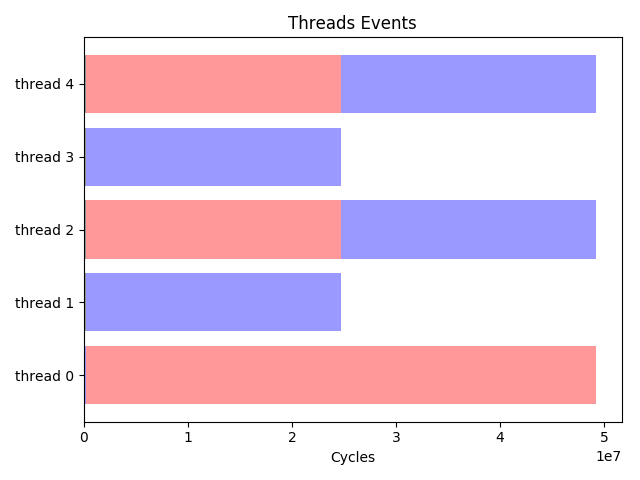
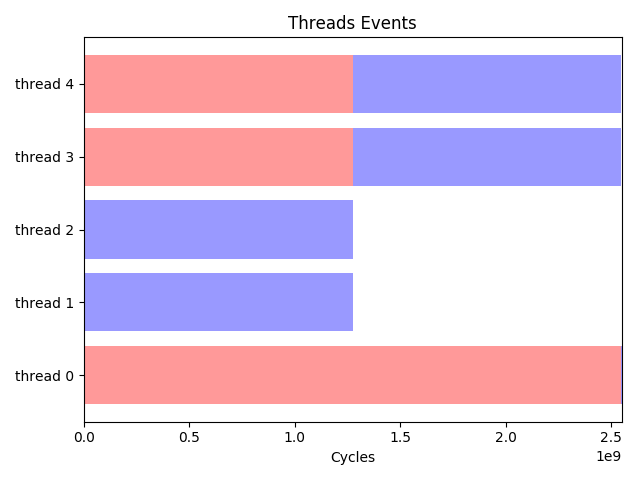
simple_sempahore_app: fix unbalanced work
The main idea for simple_semaphore_app was to have the same amount of
work divided between all the worker threads. Not only work could end up
not being equally divided, as the final work was changing, since the
computation was changing, with the number of threads.

Fix it to have a more robust simple_semaphore_app example and allow
examples during Benchmark to run for longer.

Update all images from the examples.

diff --git a/examples/simple_semaphore_app.c b/examples/simple_semaphore_app.c
@@ -12,13 +12,21 @@
 #include <stdlib.h>
 #include "stopwatch.h"
 
-#define LOOP_COUNT 4000000
+#define LOOP_COUNT 200000
 #define SEM_VALUE 2
 
 sem_t sem;
 sem_t mutex;
 
 int y;
+
+struct _dummy_work {
+    int outer_loop;
+    int inner_loop_start;
+    int inner_loop_end;
+};
+
+typedef struct _dummy_work DUMMY_WORK;
 
 int mat(int a, int b)
 {
@@ -29,14 +37,11 @@ int mat(int a, int b)
 void *dummy_func(void *pn)
 {
     int r = 0;
-    int n = *((int *) pn);
-
-    int OUTER_LOOP = n / 1000;
-    int INNER_LOOP = 1000;
+    DUMMY_WORK * dw = (DUMMY_WORK *) pn;
 
     sem_wait(&sem);
-    for(int i = 0; i < OUTER_LOOP; i++) {
-        for(int j = 0; j < INNER_LOOP; j++) {
+    for(int i = 0; i < dw->outer_loop; i++) {
+        for(int j = dw->inner_loop_start; j < dw->inner_loop_end; j++) {
             r = r + mat(i, j);
         }
     }
@@ -53,8 +58,9 @@ void *dummy_func(void *pn)
 int main(int argc, char **argv)
 {
     stopwatch_start();
-    int i, *n;
+    int i;
     int num_threads = 2;
+    DUMMY_WORK * n;
 
     if(sem_init(&sem, 0, SEM_VALUE)) {
         fprintf(stderr, "error initializing semaphore");
@@ -72,13 +78,22 @@ int main(int argc, char **argv)
         num_threads = atoi(argv[1]);
     }
 
-    n = (int *) malloc(num_threads * sizeof(int));
+    n = (DUMMY_WORK *) malloc(num_threads * sizeof(DUMMY_WORK));
 
     pthread_t *dummy_thread;
     dummy_thread = (pthread_t *) malloc(num_threads * sizeof(pthread_t));
 
+    int reminder = LOOP_COUNT % num_threads;
+    int block_size = (int) (LOOP_COUNT/num_threads);
+
     for(i = 0; i < num_threads; i++) {
-        n[i] = LOOP_COUNT / (num_threads);
+        //n[i] = LOOP_COUNT / (num_threads);
+        n[i].outer_loop = 1000;
+        n[i].inner_loop_start = (block_size*i);
+        n[i].inner_loop_end = n[i].inner_loop_start + block_size + reminder;
+
+        reminder = 0;
+
         if(pthread_create(&dummy_thread[i], NULL, dummy_func, &n[i])) {
             fprintf(stderr, "Error creating thread\n");
             return 1;

diff --git a/scripts/benchmark.py b/scripts/benchmark.py
@@ -29,31 +29,31 @@ def test_examples_must_finish(_examples):
         print ex.must_finish(5)
 
 def test_examples_must_finish_pin(_examples):
-    ''' all tests must finish under 500 seconds with different number
+    ''' all tests must finish under 1000 seconds with different number
     of threads using PINocchio '''
 
     print header("Test: Examples must finish with pin")
     for ex in _examples:
         if ex.finishes:
-            print ex.must_finish_pin(500)
+            print ex.must_finish_pin(1000)
 
 def test_examples_must_finish_pin_with_time(_examples):
-    ''' all tests must finish under 100 seconds with different number
+    ''' all tests must finish under 1090 seconds with different number
     of threads using PINocchio with time option '''
 
     print header("Test: Examples must finish with pin using time option")
     for ex in _examples:
         if ex.finishes:
-            print ex.must_finish_pin_with_time(100)
+            print ex.must_finish_pin_with_time(1000)
 
 def test_examples_must_finish_pin_with_period(_examples):
-    ''' all tests must finish under 100 seconds with different number
+    ''' all tests must finish under 1000 seconds with different number
     of threads using PINocchio with period option '''
 
     print header("Test: Examples must finish with pin using period")
     for ex in _examples:
         if ex.finishes:
-            print ex.must_finish_pin_with_period(100)
+            print ex.must_finish_pin_with_period(1000)
 
 def print_result(_examples):
     ''' Print the result table, using information from all threads '''
